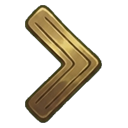
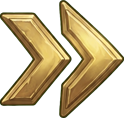
拠点のトップに新しい看板（ランタンとつる・羽のGO!）・ルーンの札・金の矢印を入れ、主人公と仲間・看板・札を1つのかたまりにして並べ直す
- 仲間はうすい紺の台にまとめ、その下から鎖で看板を吊るす。札は看板のすぐ下で幅をそろえる
- 余った高さは鎖を伸ばして受け、かたまりを上下のまん中に置く

diff --git a/src/style.css b/src/style.css
@@ -1573,6 +1573,10 @@ body:has(#base:not([hidden])) {
 }
 .base-head .runes {
   margin-left: auto;
+  padding: 0 22px;
+  border: none;
+  border-image: none;
+  background: url('./ui-art/runeplate.png') center / 100% 100% no-repeat;
   font-size: 14px;
   letter-spacing: 0.02em;
 }
@@ -1694,14 +1698,19 @@ body:has(#base:not([hidden])) {
 }
 
 /* ---- トップ：村の広場に主人公と仲間、下に看板とメニュー ---- */
-/* トップはスクロールさせない。額縁・看板・札は、トップの高さ（cqh）に合わせて縮める */
+/*
+ * トップはスクロールさせない。額縁・看板・札は、トップの高さ（cqh）に合わせて縮める。
+ * 主人公と仲間・看板・札を1つのかたまりにし（仲間の枠から鎖で看板を吊るし、札は看板のすぐ下）、上下のまん中に置く。
+ * 余った高さは、鎖を少し伸ばして受ける
+ */
 #base-body.hub {
+  --sign-w: min(100cqw - 12px, 64cqh);
   container-type: size;
   overflow: hidden;
   display: flex;
   flex-direction: column;
-  justify-content: space-between;
-  gap: 4px;
+  justify-content: center;
+  gap: 0;
   margin: 0;
   padding: 0 6px 6px;
   border: none;
@@ -1710,13 +1719,15 @@ body:has(#base:not([hidden])) {
   box-shadow: none;
 }
 .hub-hero {
+  position: relative;
+  z-index: 2;
   text-align: center;
 }
 /* 金の唐草の額縁（上に空色の宝石）。中に魔法陣の台を敷き、主人公を立たせる。台はほのかに光る */
 .hub-stage {
   position: relative;
-  width: min(140px, 21cqh);
-  height: min(144px, 21.6cqh);
+  width: min(166px, 23cqh);
+  height: min(171px, 23.7cqh);
   margin: 0 auto;
   background:
     url('./ui-art/medallion.png') center / 100% 100% no-repeat,
@@ -1725,10 +1736,10 @@ body:has(#base:not([hidden])) {
 }
 .hub-art {
   display: block;
-  width: min(104px, 15.6cqh);
-  height: min(104px, 15.6cqh);
+  width: min(124px, 17.2cqh);
+  height: min(124px, 17.2cqh);
   margin: 0 auto;
-  padding-top: min(22px, 3.3cqh);
+  padding-top: min(26px, 3.6cqh);
   box-sizing: content-box;
 }
 @keyframes hub-glow {
@@ -1745,18 +1756,24 @@ body:has(#base:not([hidden])) {
   border-image: url('./ui-art/wingplate.png') 40 95 fill / 14px 34px stretch;
   color: #ffe6a6;
   font-family: var(--serif);
-  font-size: 16px;
+  font-size: 17px;
   font-weight: bold;
   line-height: 18px;
   letter-spacing: 0.15em;
   text-shadow: 0 1px 1px rgba(0, 0, 0, 0.7);
 }
-/* 連れていく仲間：金の枠に顔、下に Lv。空き枠は［＋］がゆっくり光る */
+/* 連れていく仲間：金の枠に顔、下に Lv。空き枠は［＋］がゆっくり光る。うすい紺の台にまとめる */
 .hub-party {
   display: flex;
   justify-content: center;
   gap: 8px;
-  margin-top: 6px;
+  width: fit-content;
+  margin: 4px auto 0;
+  padding: 6px 10px 3px;
+  border: 1px solid rgba(240, 200, 110, 0.75);
+  border-radius: 10px;
+  background: linear-gradient(180deg, rgba(30, 44, 80, 0.72), rgba(20, 28, 52, 0.8));
+  box-shadow: inset 0 0 0 2px rgba(20, 28, 52, 0.6), 0 3px 8px rgba(20, 20, 40, 0.35);
 }
 .hub-slot {
   display: flex;
@@ -1771,8 +1788,8 @@ body:has(#base:not([hidden])) {
   position: relative;
   display: grid;
   place-items: center;
-  width: min(50px, 7.6cqh);
-  height: min(50px, 7.6cqh);
+  width: min(50px, 7.4cqh);
+  height: min(50px, 7.4cqh);
   padding: 6px;
   background: rgba(40, 28, 16, 0.55);
   border-radius: 4px;
@@ -1817,26 +1834,30 @@ body:has(#base:not([hidden])) {
   line-height: 14px;
   text-shadow: 1px 0 0 #3b2208, -1px 0 0 #3b2208, 0 1px 0 #3b2208, 0 -1px 0 #3b2208;
 }
-/* 鎖で吊るした［冒険の準備］の看板。絵の縦横の比のまま出す。上の 35% が鎖 */
+/*
+ * 鎖で吊るした［冒険の準備］の看板。絵（幅 704・板 302・鎖ごと 487）を下の端にそろえて出す。
+ * 見える鎖の長さは、余った高さに合わせて伸び縮みする（上は仲間の台の裏に差し込む）
+ */
 .hub-sign {
   position: relative;
-  flex: none;
-  width: min(100%, 56cqh);
-  aspect-ratio: 738 / 424;
-  margin: 0 auto;
-  background: url('./ui-art/signboard.png') center / 100% 100% no-repeat;
+  z-index: 1;
+  flex: 1 1 0;
+  width: var(--sign-w);
+  min-height: calc(var(--sign-w) * 0.43 + 18px);
+  max-height: calc(var(--sign-w) * 0.43 + 64px);
+  margin: -6px auto 0;
+  background: url('./ui-art/signboard.png') center bottom / 100% auto no-repeat;
 }
-/* 押せる板（鎖の下から下の端まで）。文字と［GO!］を、板の中で上下のまん中にそろえる */
+/* 押せる板。左のランタンをよけ、文字と［GO!］を板の木目のまん中にそろえる */
 .hub-sign-plate {
   position: absolute;
-  left: 2%;
-  right: 2%;
-  top: 35%;
-  bottom: 1%;
+  left: 0;
+  right: 0;
+  bottom: 0;
+  height: calc(var(--sign-w) * 0.43);
   display: flex;
   align-items: center;
-  gap: 2%;
-  padding: 0 6% 0 6%;
+  padding: 3.6% 1% 0 16%;
   border: none;
   background: none;
 }
@@ -1846,22 +1867,24 @@ body:has(#base:not([hidden])) {
 }
 .hub-sign-title {
   flex: 1;
-  font-size: min(28px, 4.3cqh);
+  font-size: min(29px, calc(var(--sign-w) * 0.072));
   text-align: center;
 }
+/* 羽の付いた［GO!］。玉のまわりが水色に脈打つ */
 .hub-sign-go {
   flex: none;
   display: grid;
   place-items: center;
-  width: 25%;
-  aspect-ratio: 1;
+  width: 33%;
+  aspect-ratio: 230 / 205;
+  padding-top: 2%;
   background: url('./ui-art/go.png') center / contain no-repeat;
   animation: go-pulse 2.4s ease-in-out infinite;
 }
 .go-text {
   color: #fff;
   font-family: 'Hiragino Sans', sans-serif;
-  font-size: min(22px, 3.4cqh);
+  font-size: min(24px, calc(var(--sign-w) * 0.058));
   font-weight: 900;
   font-style: italic;
   letter-spacing: 0.02em;
@@ -1871,18 +1894,20 @@ body:has(#base:not([hidden])) {
   0%, 100% { transform: scale(1); filter: drop-shadow(0 0 2px rgba(150, 220, 255, 0.5)); }
   50% { transform: scale(1.05); filter: drop-shadow(0 0 10px rgba(150, 220, 255, 0.95)); }
 }
-/* ［商店］は幅いっぱい、［記録］［配合］は2つ並べる。木の縁に真ちゅうの金具の札 */
+/* ［商店］は幅いっぱい、［記録］［配合］は2つ並べる。木の縁に真ちゅうの金具の札。看板のすぐ下に置く */
 .hub-menus {
   display: grid;
   grid-template-columns: 1fr 1fr;
-  gap: 6px 8px;
+  gap: min(8px, 1.2cqh) 8px;
+  width: var(--sign-w);
+  margin: min(10px, 1.5cqh) auto 0;
 }
 .hub-item {
   position: relative;
   display: flex;
   align-items: center;
   gap: 6px;
-  height: min(58px, 9.4cqh);
+  height: min(62px, 9.6cqh);
   padding: 0 8px;
   border-style: solid;
   border-width: 8px;
@@ -1914,8 +1939,8 @@ body:has(#base:not([hidden])) {
 }
 .hub-go img {
   display: block;
-  width: 16px;
-  height: 16px;
+  width: 20px;
+  height: 20px;
 }
 @media (prefers-reduced-motion: reduce) {
   .hub-stage,

diff --git a/public/sw.js b/public/sw.js
@@ -1,7 +1,7 @@
 // オフラインでも遊べるようにする（requirements.md 2章）。
 // 通信できるときは常に新しいものを取りに行き、取れたものを保存しておく。通信できないときは保存したものを使う
 // 保存の仕方を変えたときだけ名前を変える。ビルドごとに変える必要はない
-const CACHE = 'summoner-v39';
+const CACHE = 'summoner-v40';
 
 // 入れたときに、ページと、ページが読み込むファイル（ビルドで名前が変わる）を先に保存する
 self.addEventListener('install', (event) => {

diff --git a/docs/requirements.md b/docs/requirements.md
@@ -327,10 +327,10 @@
   - あるダンジョンを初めて踏破すると、終わりの知らせに「○○に挑めるようになった」と出す
   - 拠点に入ると、まずトップを出す。ダンジョンから戻ったときもトップに戻る
   - **下のタブ**：［拠点］［冒険］［仲間］［配合］［商店］［その他］の6つ。木の帯に、四角い枠に入ったアイコンと名前を並べ、選んでいるタブは金の枠にして少し浮かせる。どの画面からも1回で移れる
-  - **見出し**：左にトップでは「初代 召喚士」のような何代目か（9.1。あとで称号を足す）、ほかの画面では画面の名前。右に持っているルーン。どちらも紺の板に金の縁
+  - **見出し**：左にトップでは「初代 召喚士」のような何代目か（9.1。あとで称号を足す）、ほかの画面では画面の名前。右に持っているルーン（左右がひし形の金の飾りの札）。どちらも紺の板に金の縁
   - どの画面も、村の一枚絵を背景にする。トップ以外は一覧が読みやすいよう、背景を少し暗くする
   - 見出しやメニューの名前は、太いゴシックに濃い縁取りと金のグラデーションの字にする
-    - **トップ**：スクロールさせない。額縁・看板・札は、画面の高さに合わせて縮めて1画面に収める。村の広場に、金の唐草の額縁（上に空色の宝石）の中で魔法陣の台に立つ主人公と、羽の付いた紺の名札（「初代 召喚士」）、金の枠に入れた連れていく仲間5つ（顔の下に Lv。空き枠は［＋］がゆっくり光る）。仲間の枠を押すと、冒険の準備の仲間のタブへ。その下に、鎖で吊るした［冒険の準備］の大きな看板（右に［GO!］。どこを押しても冒険の準備へ）、幅いっぱいの［商店］、2つ並べた［記録］［配合］の札。札に説明の文は付けない
+    - **トップ**：スクロールさせない。額縁・看板・札は、画面の高さに合わせて縮めて1画面に収める。主人公と仲間・看板・札は1つのかたまりにして上下のまん中に置く（仲間はうすい紺の台にまとめ、その下から鎖で看板を吊るす。札は看板のすぐ下で、幅を看板にそろえる）。余った高さは鎖を少し伸ばして受ける。村の広場に、金の唐草の額縁（上に空色の宝石）の中で魔法陣の台に立つ主人公と、羽の付いた紺の名札（「初代 召喚士」）、金の枠に入れた連れていく仲間5つ（顔の下に Lv。空き枠は［＋］がゆっくり光る）。仲間の枠を押すと、冒険の準備の仲間のタブへ。その下に、鎖で吊るした［冒険の準備］の大きな看板（濃い木の板に、宝石の紋章・ランタン・つると花。右に羽の付いた［GO!］。板のどこを押しても冒険の準備へ）、幅いっぱいの［商店］、2つ並べた［記録］［配合］の札。札に説明の文は付けない
     - **知らせ**：下のタブとトップの札に付ける。新しい仲間が加わった（ダンジョンから戻ったとき）→［仲間］に赤い丸の「！」。商店の品が入れ替わった→［商店］に「！」。どちらもその画面を開くと消える。配合できる組み合わせ（Lv10 以上の仲間2体・配合の書・1000ルーン）がそろった→［配合］に斜めの「NEW」のリボン。リボンは札の右上の角に掛ける。配合の画面を開くと消え、そろわなくなってまたそろうと、もう一度出す
     - **冒険（冒険の準備）**：タブは［仲間］［持ち物］の2つ。連れていく仲間を選び、持ち物を出し入れして、下の［ダンジョンに向かう］で出発する
     - **仲間**：全員の一覧（連れていく仲間は行の縁を緑にする）と並べ替えのボタン。押すとつよさを見られ、名前を変えられる
